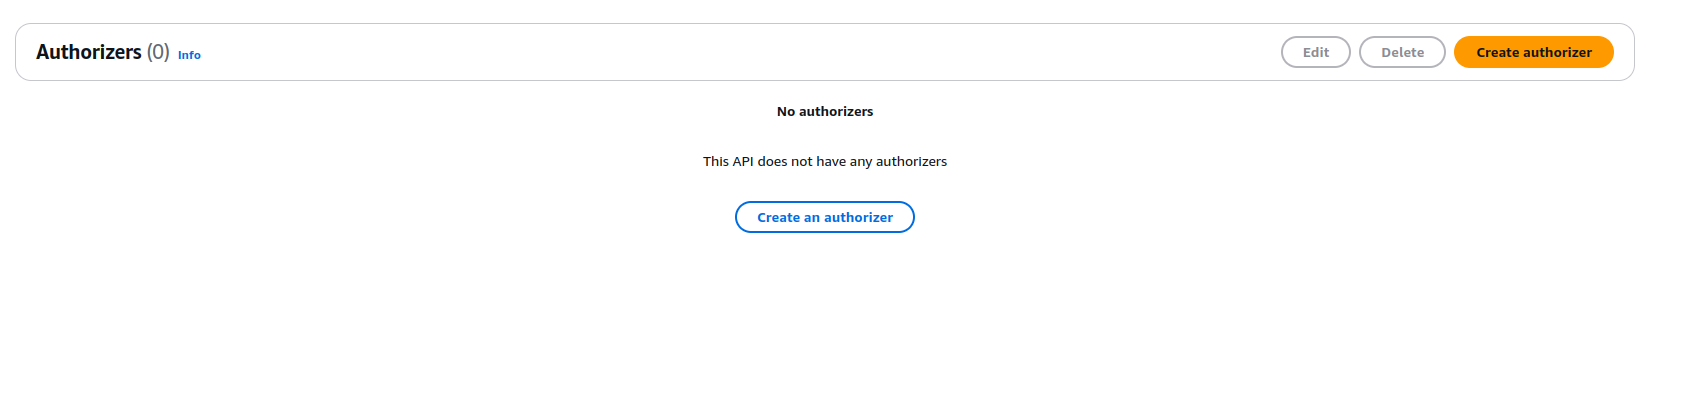
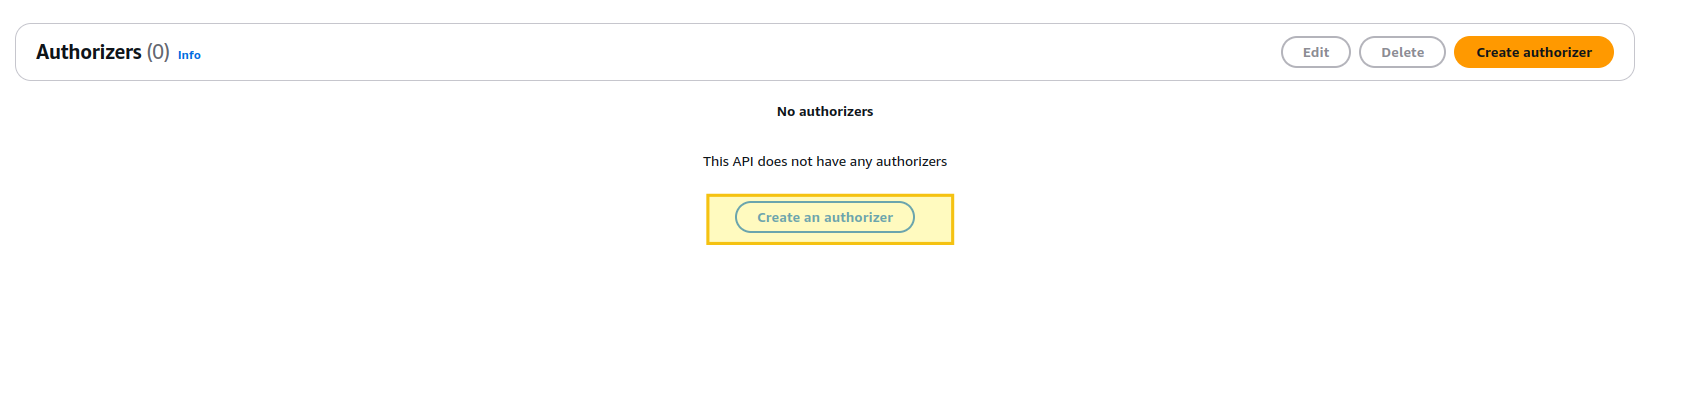
readme

Changed region(s): [[0.4048, 0.4848, 0.5605, 0.6364]]

diff --git a/README.md b/README.md
@@ -275,31 +275,179 @@ git push
 
 ![](imgs/sec-31.png)
 
-## 3. Serverless service backend
+### 3. Serverless service backend
+
+1. Create a new folder that will be used to create your cdk application:
+
+```
+mkdir request-unicorn && cd request-unicorn
+```
+![](imgs/sec-36_1.png)
+
+2. Initialize the cdk application with javascript as the selected language:
+
+```
+cdk init app --language javascript
+```
+
+![](imgs/sec-36_2.png)  
+
+3. Prepare your AWS environment to use cdk; save the default template used by the CDK bootstrap process to a yaml file (bootstrap-template.yaml in this case):
+
+```
+cdk bootstrap --show-template > bootstrap-template.yaml
+```
+
+***Reminder:** The following bootstrap setup is custom, as when you run ```cdk bootstrap```, an AWS CloudFormation stack (CDKToolkit) is created in your account. This stack provides the resources that CDK needs to deploy and manage the infrastructure, and among these resources are IAM roles (which are not currently supported in the AWS Academy account).*
 
 ![](imgs/sec-32.png)  
+
+**Observation:** If you see a warning because the version of *Node.js* is higher than the maximum tested version for cdk, run the following command to avoid this:
+
+```
+export JSII_SILENCE_WARNING_UNTESTED_NODE_VERSION=1
+```
+
+4. Comment on these *Resorces* (and their features):
+
+- FilePublishingRole
+- ImagePublishingRole
+- LookupRole
+- FilePublishingRoleDefaultPolicy
+- ImagePublishingRoleDefaultPolicy
+- DeploymentActionRole
+- CloudFormationExecutionRole
+
+5. Find the *FileAssetsBucketEncryptionKey* resource, and change the value of *Fn::Sub* from *${FilePublishingRole.Arn}* to "*".
+
+6. Files explanation...
+
+7. Synthesize your CDK application into the AWS CloudFormation template:
+
+```
+cdk synth
+```
+
 ![](imgs/sec-33.png)  
+
+8. Deploy the application with the ARN of your **AIM role** (in this case *LabRole*):
+
+```
+cdk deploy -r arn:aws:iam::645349541441:role/LabRole
+```
+
 ![](imgs/sec-34.png)  
+
+> You will see the resources that are going to be deployed:
+
 ![](imgs/sec-35.png)  
-![](imgs/sec-36.png)  
-![](imgs/sec-37.png)  
+
+> At the end you will see the URL to access your lambda function:
+
+**<ins>https://orykmyik1c.execute-api.us-east-1.amazonaws.com/prod</ins>**
+
+![](imgs/sec-37.png)
+
+> If you go to the DynamoDB console, to the Tables section, you will see the table created in the cdk configuration: **Rides**
+
 ![](imgs/sec-38.png)  
+
 ![](imgs/sec-39.png)  
-![](imgs/sec-40.png)  
-![](imgs/sec-41.png)  
-![](imgs/sec-42.png)  
+
+9. Go to the Lambda console and select the function previously created with cdk:
+
+![](imgs/sec-40.png)
+
+10. Go to the **Test** section:
+
+![](imgs/sec-41.png)
+
+11. Select:
+
+* **Test event action:** Create new event
+* **Event name:** *(Give your test event a name)* TestRequestEvent
+* Copy and paste the following test event code into the **Event JSON** section:
+
+```
+{
+    "path": "/ride",
+    "httpMethod": "POST",
+    "headers": {
+        "Accept": "*/*",
+        "Authorization": "eyJraWQiOiJLTzRVMWZs",
+        "content-type": "application/json; charset=UTF-8"
+    },
+    "queryStringParameters": null,
+    "pathParameters": null,
+    "requestContext": {
+        "authorizer": {
+            "claims": {
+                "cognito:username": "the_username"
+            }
+        }
+    },
+    "body": "{\"PickupLocation\":{\"Latitude\":47.6174755835663,\"Longitude\":-122.28837066650185}}"
+}
+```
+
+12. Choose **Test**
+
+![](imgs/sec-42.png)
+
+13. Verify that the output of the function contains a `201 statusCode` and is similar to the following:
+
 ![](imgs/sec-43.png)
 
-## 4. Deploy an API RESTful
+### 4. Deploy an API RESTful
 
-![](imgs/sec-44.png)  
-![](imgs/sec-45.png)  
+1. Go to the [Amazon API Gateway console](https://console.aws.amazon.com/apigateway/), and select APIs in the left navigation pane; you will see the API created earlier with cdk: **<ins>UnicornAPI</ins>**; click on it:
+
+![](imgs/sec-44.png)
+
+2. In the left navigation pane, select **Authorizers**:
+
+![](imgs/sec-45.png)
+
+3. Select **Create an authorizer**
+
 ![](imgs/sec-46.png)  
-![](imgs/sec-47.png)  
+
+4. Set these values:
+
+* **Authorizer Name:** *(Give your Authorizer a name)* WildRydes
+* **Authorizer Type:** Cognito
+* **Cognito user pool**
+
+> Select your region, you can check it by running:
+
+```
+aws configure get region
+```
+
+![](imgs/sec-48_1.png)  
+
+> Select the previously created identity pool
+
+![](imgs/sec-21_2.png)  
+
+* **Token source:** Authorization
+
 ![](imgs/sec-48.png)  
-![](imgs/sec-49.png)  
-![](imgs/sec-50.png)  
-![](imgs/sec-51.png)  
+
+> You will see the Authorizer created; access it by clicking on its name:
+
+![](imgs/sec-49.png)
+
+5. In the Token field, paste the token you obtained earlier in the WildRydes app; and select **Test authorizer**:
+
+![](imgs/sec-50.png)
+
+> Verify that you received a `200 code`.
+
+6. In the left navigation pane, select **Resources**, and select **Create resource**:
+
+![](imgs/sec-51.png)
+
 ![](imgs/sec-52.png)  
 ![](imgs/sec-53.png)  
 ![](imgs/sec-54.png)  
